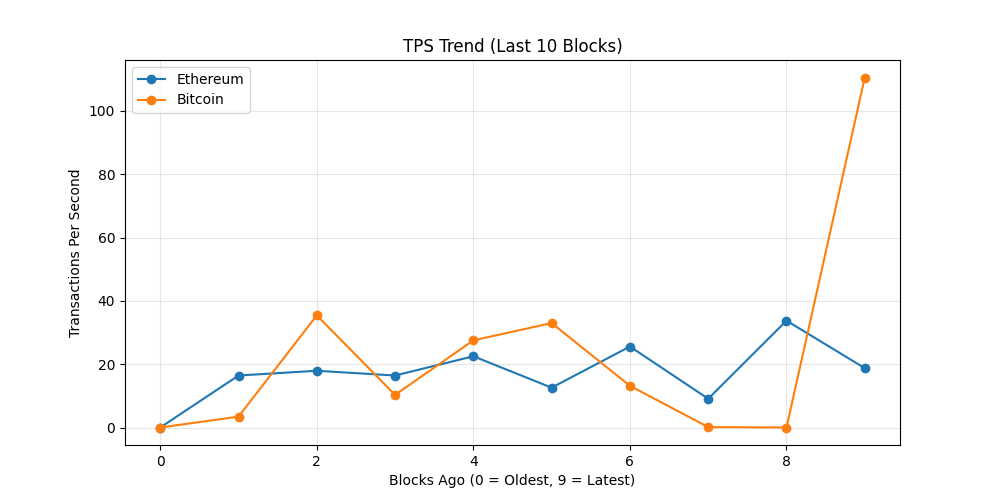
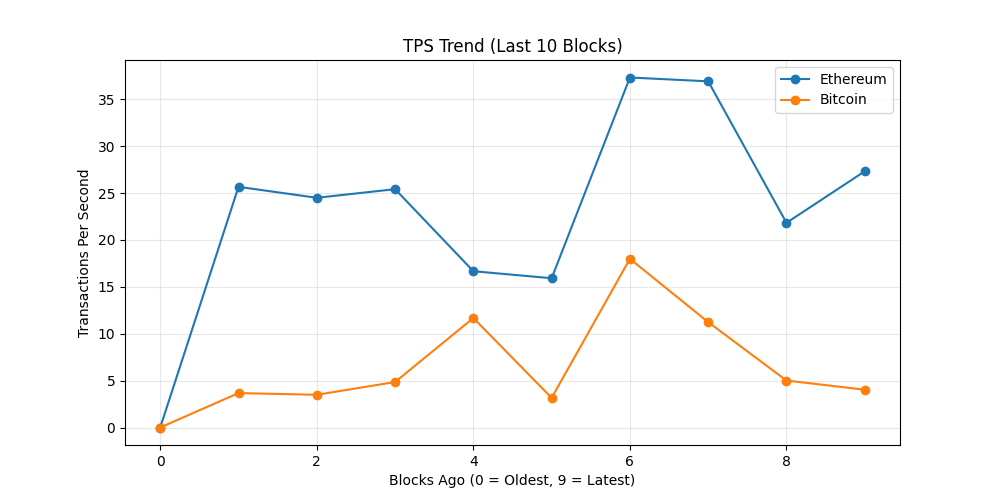
chore: update on-chain dashboard

diff --git a/README.md b/README.md
@@ -19,7 +19,7 @@ The README itself acts as the dashboard and is regenerated automatically on a 6 
 demonstrating a production-style, infrastructure-focused observability workflow rather
 than a traditional UI-driven approach.
 
-_Last updated: 2026-09-22 04:53 UTC_
+_Last updated: 2026-09-22 11:35 UTC_
 
 ## API Usage (GetBlock.io)
 - Calls used: **24**
@@ -27,8 +27,8 @@ _Last updated: 2026-09-22 04:53 UTC_
 ## Network Metrics
 | Chain | Block Height | TX Count | TPS (10 blk avg) | Block Util | Avg Fee |
 |------|-------------|----------|------------------|------------|---------|
-| Ethereum | 26030766 | 225 | 18.75 | 35.7% | 0.1 Gwei |
-| Bitcoin | 968098 | 7076 | 110.56 | 99.79% | N/A |
+| Ethereum | 26032764 | 328 | 27.33 | 55.04% | 0.1 Gwei |
+| Bitcoin | 968137 | 4454 | 4.03 | 99.79% | N/A |
 
 ## Visuals
 ### Transactions Trend
@@ -43,8 +43,11 @@ _Last updated: 2026-09-22 04:53 UTC_
 ## Whale Alerts (latest block)
 - Transaction hashes are truncated for readability.
 - Full hashes are available in `dashboards/metrics.json`
-- Bitcoin | 106.31 BTC | `8af5b5a9c946…`
-- Bitcoin | 620.09 BTC | `dc4664f75229…`
+- Bitcoin | 269.1 BTC | `7a45bf8542c3…`
+- Bitcoin | 104.43 BTC | `57a563d87b69…`
+- Bitcoin | 120.39 BTC | `fcda1e223346…`
+- Bitcoin | 146.17 BTC | `551386448db1…`
+- Bitcoin | 118.73 BTC | `85335fabac71…`
 
 ## Run locally
 
